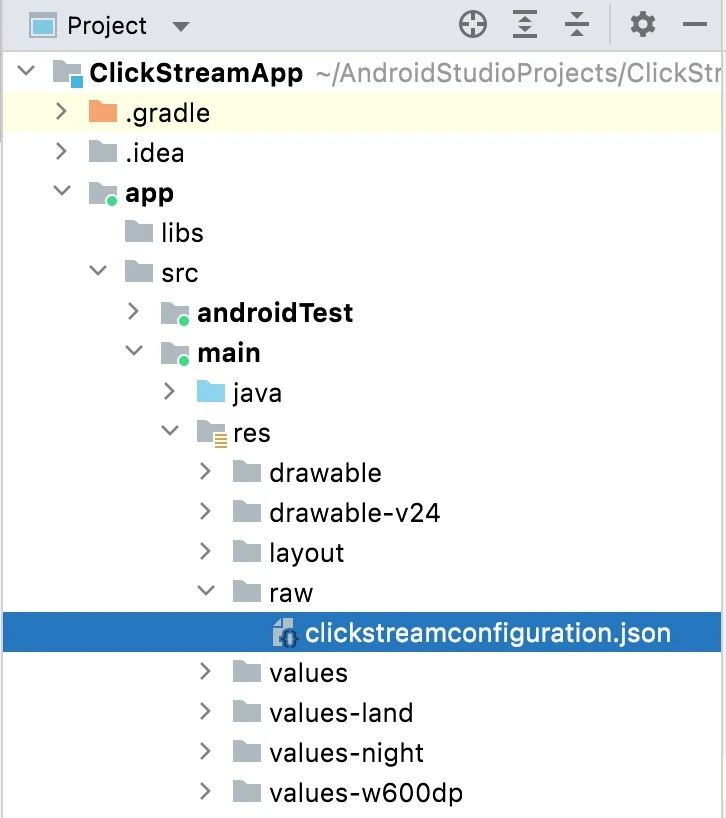
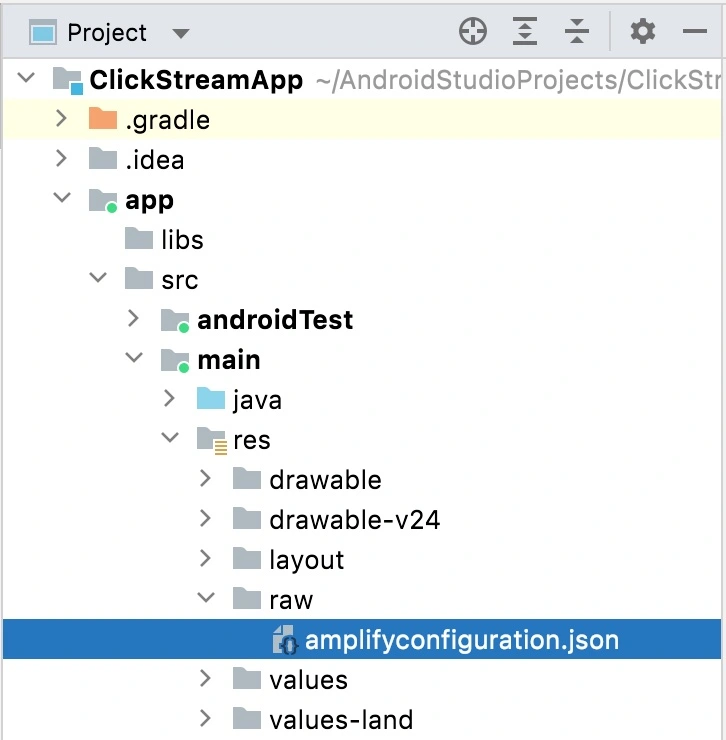
fix: app integration config file

Changed region(s): [[0.0, 0.0, 1.0, 0.9946], [0.2727, 0.9635, 0.303, 0.9946]]

diff --git a/frontend/src/ts/guideConst.ts b/frontend/src/ts/guideConst.ts
@@ -15,13 +15,12 @@ export const CLICKSTREAM_REPO_LINK =
   'https://github.com/aws-solutions/clickstream-on-aws';
 export const GUIDE_LINK_ANDROID_SDK = '/'; // TODO
 export const GUIDE_LINK_IOS_SDK = '/'; // TODO
-export const DOWNLOAD_FILENAME = 'clickstreamconfiguration.json';
+export const DOWNLOAD_FILENAME = 'amplifyconfiguration.json';
 export const TEMPLATE_APP_ID = '{{APP_ID}}';
 export const TEMPALTE_SERVER_ENDPOINT = '{{SERVER_ENDPOINT}}';
 
 // Android Guide
-export const ANDROID_CONFIG_JSON_TEMPLATE = `
-{
+export const ANDROID_CONFIG_JSON_TEMPLATE = `{
   "UserAgent": "aws-solution/clickstream",
   "Version": "1.0",
   "analytics": {
@@ -95,8 +94,7 @@ ClickstreamAnalytics.addUserAttributes(clickstreamUserAttribute);
 `;
 
 // iOS Guide
-export const IOS_CONFIG_JSON_TEMPLATE = `
-{
+export const IOS_CONFIG_JSON_TEMPLATE = `{
   "analytics": {
     "plugins": {
       "awsClickstreamPlugin ": {
